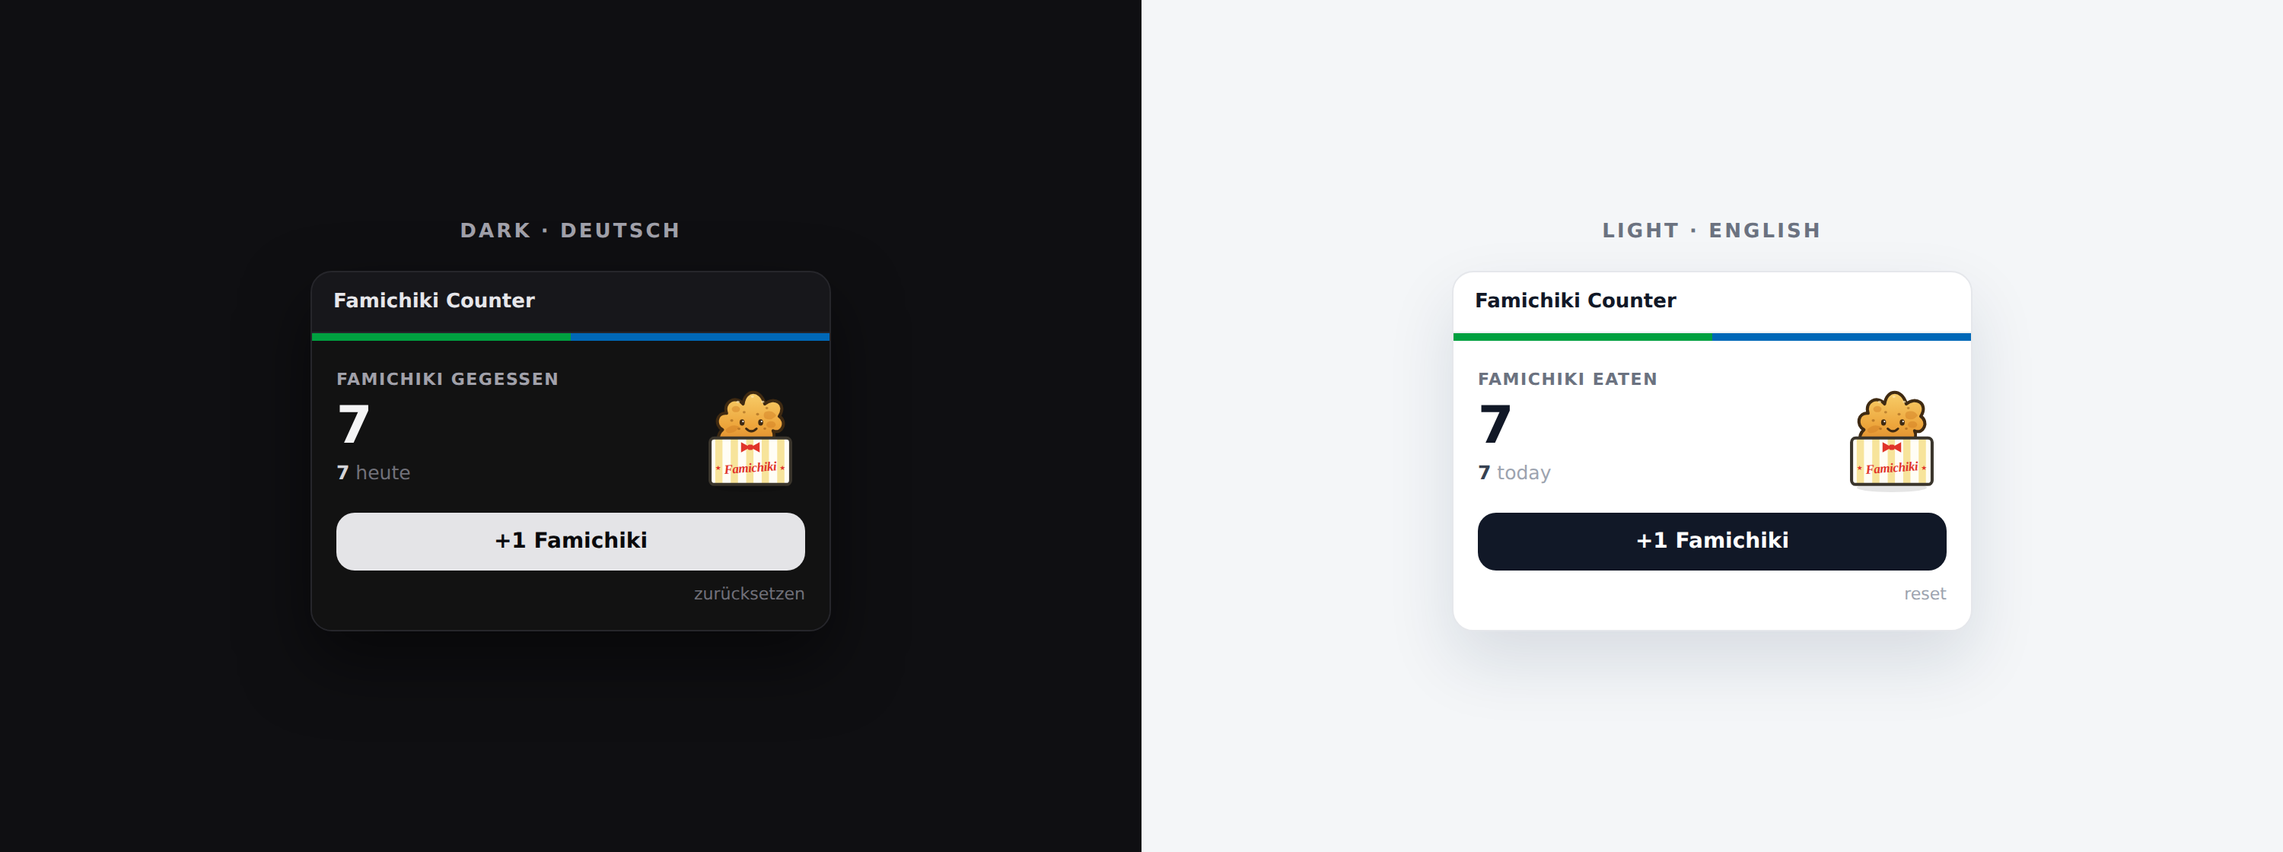
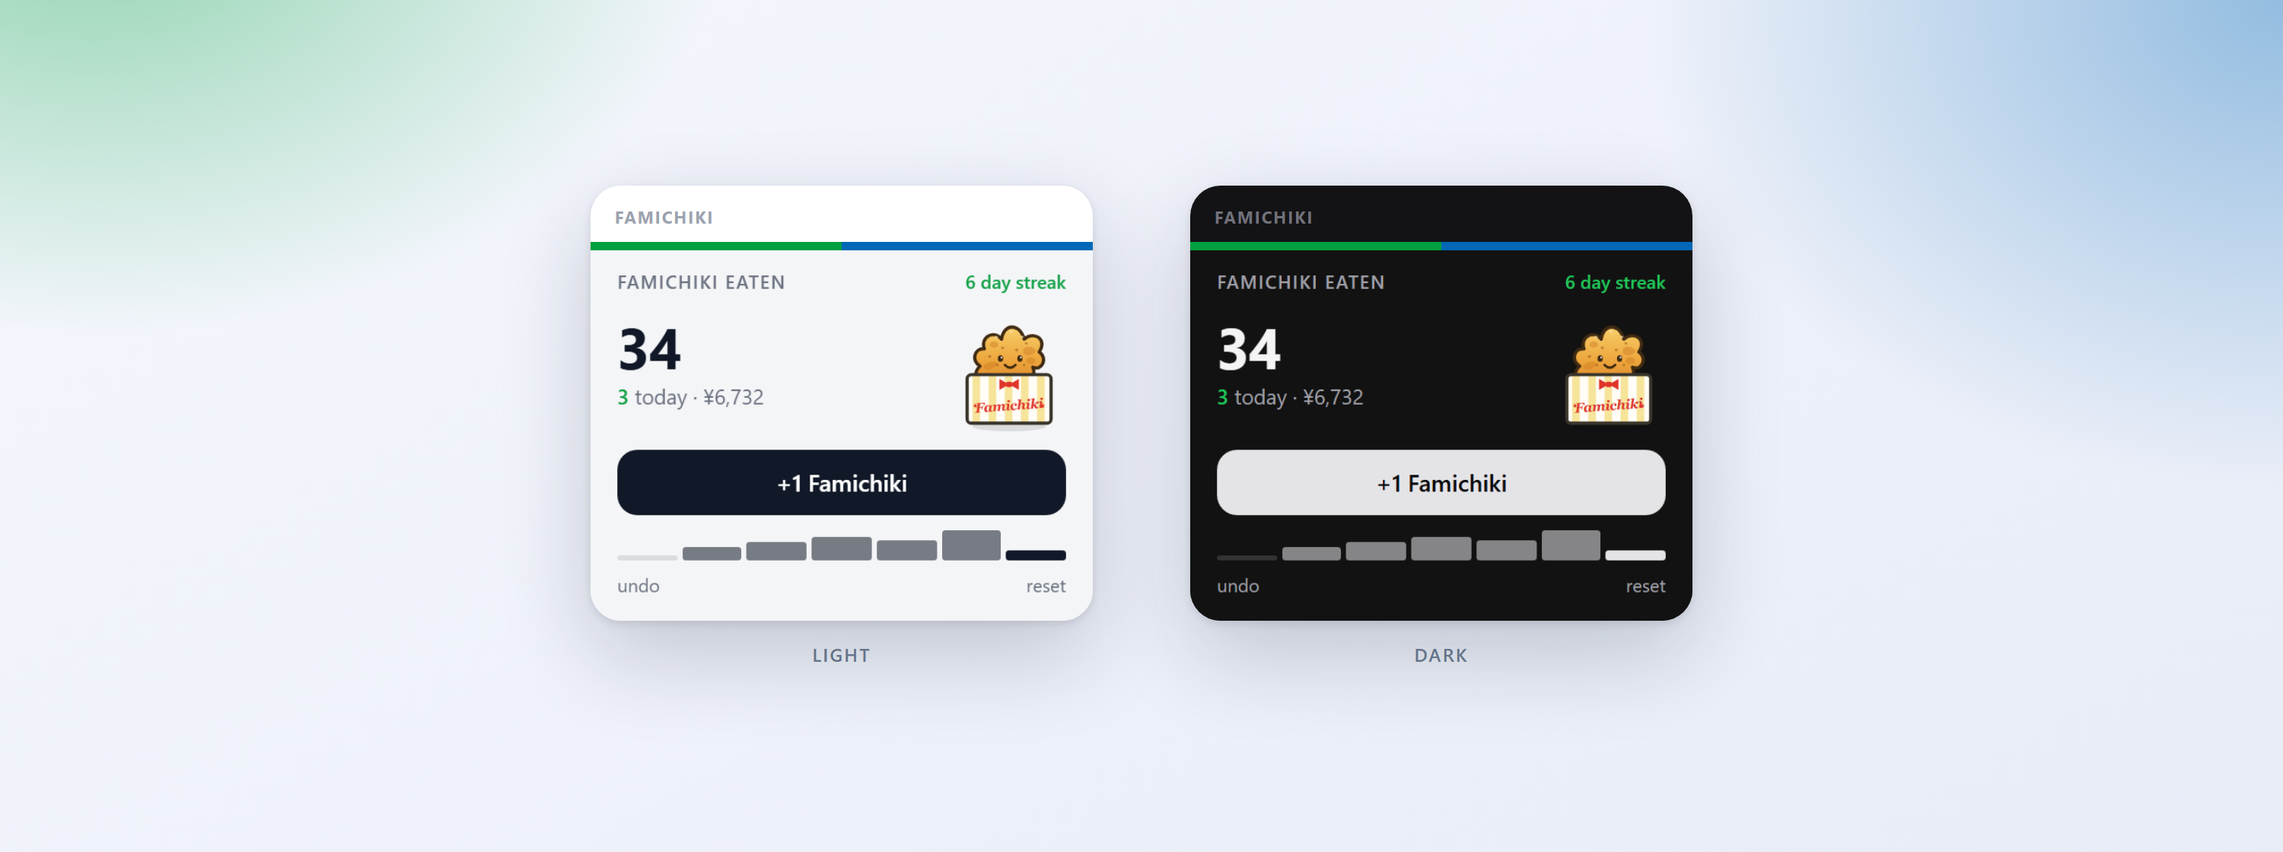
docs: rewrite README and publishing guide for 2.0.0, refresh store images
README covers the new permissions — the registry gate requires every declared
permission string to appear verbatim — plus the settings, the TREK 4 requirement
and the upgrade path. It states plainly that the trip badge and PDF section show
the trip's total rather than a personal one, and that pre-2.0.0 rows have an
approximated local date, instead of leaving either to be discovered.

New store images rendered from the real widget: docs/screenshot.png (1600x900,
light and dark side by side over a FamilyMart-green/blue mesh) and
docs/widget.png (both themes at true sidebar width).

PUBLISHING.md was stale in ways that would have cost a release:

- the manual path was missing `git fetch origin --tags` after `gh release
  create`. gh creates the tag remotely only, so `entry` could not resolve the
  commit — it would have failed every time as written.
- publish was described as four steps; it is five, and a failure after the
  release now rolls back the release and tags it created.
- it claimed the repo was at 1.0.0 and pointed at the old registry owner.
- the README gate was summarised as sections plus screenshot, omitting the
  400-character prose floor, the placeholder rule and the live image fetch.
- signing was described as a one-time decision to make up front. Going unsigned
  to signed is safe at any version, and the first signed release retro-signs the
  already-published ones — worth knowing, since 1.x shipped unsigned.
[…]

diff --git a/PUBLISHING.md b/PUBLISHING.md
@@ -1,13 +1,17 @@
 # Publishing the Famichiki Counter to the TREK-Plugins registry
 
 This guide takes you from this repository to a live listing in the
-[TREK-Plugins](https://github.com/mauriceboe/TREK-Plugins) community registry.
+[TREK-Plugins](https://github.com/liketrek/TREK-Plugins) community registry.
 
 **How TREK distribution works:** your plugin's code, README, screenshot and
 release artifact live in **this repo** (`fbnlrz/trekichiki`). The registry only
 stores one small metadata file per plugin — `registry/plugins/trekichiki.json`.
 "Getting listed" means opening a pull request that adds that one file. TREK
 instances then fetch the registry index and can install your release.
+
+> The SDK's default registry is `liketrek/TREK-Plugins`. Earlier releases of this
+> plugin were submitted under the project's former `mauriceboe/…` name. If the
+> default ever points somewhere else than you expect, pass `--registry <owner/name>`.
 
 ---
 
@@ -26,26 +30,34 @@ instances then fetch the registry index and can install your release.
 
 ---
 
-## 1. Get the code onto your PC and merged to `main`
+## 1. Commit and push what you are publishing
 
-The commit you publish must exist on the public repo. Cleanest is to have it on
-`main`:
+**The registry grades the tagged commit, not your working tree.** The classic
+failure is a README that is perfect on disk and missing from the commit, which
+passes `validate` locally and then fails `preflight` at the pinned commit.
 
 ```bash
-git clone https://github.com/fbnlrz/trekichiki.git
-cd trekichiki
-
-# If the widget is still on the feature branch, merge it into main:
 git checkout main
-git merge --ff-only origin/claude/famichiki-counter-widget-jmlkt5   # or open & merge a PR on GitHub
+git add -A && git commit -m "Famichiki Counter 2.0.0"
 git push origin main
 ```
 
-(If you merged a PR on GitHub instead, just `git checkout main && git pull`.)
+---
+
+## 2. Where am I? — `status`
+
+```bash
+npm run status               # npx trek-plugin-sdk status .
+```
+
+`status` never fails; it grades every gate that can be answered offline
+(Manifest / Code / Docs / Release / Repo) and names exactly one next command.
+`npm run validate` runs the same checks as a real gate with an exit code, which
+is what CI wants.
 
 ---
 
-## 2. Publish — the one command
+## 3. Publish — the one command
 
 From the repo root:
 
@@ -54,84 +66,109 @@ npm run release              # cross-platform wrapper (node scripts/publish.mjs)
 ```
 
 > **Windows note:** `npm run release` uses a Node wrapper, so it works in
-> PowerShell/CMD. If you ever call the bash version directly and see
-> `set: pipefail: invalid option`, that's a CRLF line-ending issue — use
-> `npm run release` (Node) or the raw `npx trek-plugin-sdk publish …` command.
-> You still need **GitHub CLI** installed (`winget install --id GitHub.cli -e`)
-> and authenticated (`gh auth login`); a `spawnSync gh ENOENT` error means it
-> isn't on your PATH yet.
+> PowerShell/CMD. You still need **GitHub CLI** installed
+> (`winget install --id GitHub.cli -e`) and authenticated (`gh auth login`);
+> a `spawnSync gh ENOENT` error means it isn't on your PATH yet.
 
 or call the SDK directly:
 
 ```bash
-npx trek-plugin-sdk publish --repo fbnlrz/trekichiki --tag v1.0.0
+npx trek-plugin-sdk publish --repo fbnlrz/trekichiki --tag v2.0.0 --sign
 ```
 
-That single command does **everything**:
+That single command runs **five** steps, in this order:
 
-1. **pack** → builds `plugin.zip` in the exact install layout and computes its `sha256`
-2. **tag + release** → creates git tag `v1.0.0` and a GitHub Release with `plugin.zip` attached
-3. **preflight** → runs the *entire* registry CI locally (tag→commit, manifest parity, sha256/size, native-binary scan, README quality gate)
-4. **submit** → forks `mauriceboe/TREK-Plugins`, writes `registry/plugins/trekichiki.json`, pushes, and **opens the PR** — printing its URL
+1. **check** → every offline gate (manifest, lucide icon, README quality, screenshot on disk, permission parity)
+2. **pack** → builds `plugin.zip` in the exact install layout and computes its `sha256`
+3. **release** → creates git tag `v2.0.0` and a GitHub Release with `plugin.zip` attached
+4. **preflight** → runs the *entire* registry CI (tag→commit, manifest parity, artifact download + sha256, native-binary scan, **README re-graded at the pinned commit**, owner binding, signature checks)
+5. **submit** → forks the registry, writes `registry/plugins/trekichiki.json`, pushes, and **opens the PR** — printing its URL
 
-If preflight finds a problem it **stops before opening the PR**, so a broken
-entry never becomes a doomed pull request. Fix what it reports and re-run.
+If a step-1 gate fails, **nothing** is packed, tagged, pushed or released. If a
+*later* step fails, `publish` **rolls back what this run created** — the
+release, the remote tag and the local tag — so you fix the problem and re-run
+against the **same version**. (`--keep-release` opts out of the rollback;
+`unrelease <tag>` cleans up a release that was already stranded.)
 
-> **The tag must equal the manifest version.** This repo is at `version: 1.0.0`,
-> so the tag is `v1.0.0`. `npm run release` reads the version from
+> **The tag must equal the manifest version.** This repo is at `version: 2.0.0`,
+> so the tag is `v2.0.0`. `npm run release` reads the version from
 > `trek-plugin.json` for you, so it always matches.
 
-When the PR is merged, a TREK maintainer's CI stamps it, regenerates the public
-index, and your plugin is discoverable under **Admin → Plugins → Discover** in
-any TREK instance.
+When the PR is merged, the registry CI stamps it, regenerates the public index,
+and your plugin is discoverable under **Admin → Plugins → Discover** in any TREK
+instance. Admins see the update on their next registry poll; applying it is an
+explicit action, and because 2.0.0 requests **more permissions than 1.x**, every
+admin has to re-approve it before it activates.
 
 ---
 
-## 3. (Recommended) Sign your release
+## 4. Signing — say yes
 
-A signature proves *you* built the bytes (a compromised registry still can't
-ship code under your name). One-time key, then add `--sign`:
+A signature proves *you* built the bytes; the `sha256` pin only proves they are
+what the registry served. Only the signature survives a compromised registry.
+
+In a terminal, `publish` **offers to sign and creates the key for you** — just
+say yes. In scripts or CI, which are never prompted, pass `--sign`:
 
 ```bash
-npx trek-plugin-sdk keygen           # once → ~/.trek-plugin/signing.key
-#  ⚠  BACK THIS FILE UP. Losing it means you can't ship signed updates.
+npx trek-plugin-sdk keygen           # optional, by hand → ~/.trek-plugin/signing.key
+#  ⚠  BACK THIS FILE UP. One key covers all your plugins, forever.
 
-npm run release -- --sign            # or: npx trek-plugin-sdk publish --repo fbnlrz/trekichiki --tag v1.0.0 --sign
+npm run release -- --sign
 ```
 
-Signing is a one-way door: once you've shipped signed, an unsigned or
-differently-keyed update is refused until an admin re-trusts it. Keep the key
-stable and backed up.
+**Signing late is fine.** This plugin's 1.x releases are unsigned, and going
+unsigned → signed at 2.0.0 breaks nobody: nothing is pinned until a signed
+version installs. The SDK **retro-signs the older versions automatically** on
+the first signed update — it downloads each pinned artifact, verifies it against
+its recorded `sha256`, and signs it with the same key (a mismatch aborts the
+run), because the registry requires every version signed once a key is present.
+
+What you cannot do is **stop**. Once a plugin has shipped signed, TREK refuses —
+on every instance that already has it — an update that drops the key, changes
+the key, or ships unsigned. A key *rotation* is recoverable (a maintainer applies
+`allow-key-change` and every admin re-trusts); a dropped key has no override at
+all. So back the key up.
 
 ---
 
-## 4. Manual path (if you prefer to see every step)
+## 5. Manual path (if you prefer to see every step)
 
 ```bash
 npx trek-plugin-sdk pack .                                   # → plugin.zip + sha256
-gh release create v1.0.0 plugin.zip --title "Famichiki Counter v1.0.0" --notes "First release"
-npx trek-plugin-sdk entry --repo fbnlrz/trekichiki --tag v1.0.0 \
-  --out registry/plugins/trekichiki.json                     # fills commitSha/downloadUrl/sha256/size…
-npx trek-plugin-sdk preflight --repo fbnlrz/trekichiki --tag v1.0.0   # must be green
-# then fork mauriceboe/TREK-Plugins, add ONLY registry/plugins/trekichiki.json, open the PR
+gh release create v2.0.0 plugin.zip --title "Famichiki Counter v2.0.0" --notes "…"
+git fetch origin --tags                                      # ← REQUIRED: gh creates the tag
+                                                             #   remotely only, and `entry`
+                                                             #   resolves it locally
+npx trek-plugin-sdk entry --repo fbnlrz/trekichiki --tag v2.0.0 --sign \
+  --merge registry/plugins/trekichiki.json \
+  --out registry/plugins/trekichiki.json                     # newest version first
+npx trek-plugin-sdk preflight --repo fbnlrz/trekichiki --tag v2.0.0   # must be green
+# then fork the registry, add ONLY registry/plugins/trekichiki.json, open the PR
 ```
+
+`entry` hashes your **local** `plugin.zip`, so it has to be byte-identical to
+the asset you uploaded — never re-pack in between. On a hand-written entry, take
+`sha256` and `size` from the uploaded asset itself.
 
 **PR rule:** the pull request must change **exactly one file** —
 `registry/plugins/trekichiki.json`. Never touch `dist/` or set
-`reviewedAt`/`boundOwner`; the registry CI owns those.
+`reviewedAt`/`boundOwner`; the registry CI owns those. Leave the older
+`versions[]` blocks alone — CI re-validates all of them, over the network.
 
 ---
 
-## 5. Shipping an update later (v1.1.0, …)
+## 6. Shipping an update later (2.1.0, …)
 
 ```bash
-# 1. bump "version" to 1.1.0 in trek-plugin.json, make your changes, commit, push to main
-npm run release              # reads 1.1.0 → tags v1.1.0 → release → preflight → PR (merges the new
-                             # version onto your existing entry, newest first)
+# 1. bump "version" in trek-plugin.json AND package.json, make your changes
+# 2. commit and push — the commit is what gets graded
+npm run release -- --sign    # reads the version → tags → release → preflight → PR
 ```
 
-If a new version requests **more** permissions, admins must re-approve it on
-their instance before it activates.
+Remember that the `trek` range in the manifest is enforced at install **and** at
+activation, with no admin override. This version declares `>=4.0.0 <5.0.0`, so
+TREK 3.x instances keep resolving "install latest" to 1.0.3 rather than breaking.
 
 ---
 
@@ -139,13 +176,16 @@ their instance before it activates.
 
 | Symptom | Cause | Fix |
 |---|---|---|
+| `could not resolve the commit for tag` | `gh` created the tag remotely only | `git fetch origin --tags` before `entry`/`preflight` |
 | `gitTag does not resolve` | tag not pushed, or ≠ manifest version | use `npm run release` (derives the tag); ensure `git push` ran |
 | `manifest parity` fails | repo not public, or tagged commit not pushed | make repo public; publish from a committed, pushed HEAD |
-| `sha256 mismatch` | release asset was re-uploaded/edited | never mutate a released `plugin.zip` — bump the version and cut a new release |
-| README gate fails | missing section / screenshot / a declared permission not explained | keep the **What it does / Screenshots / Permissions / Setup** sections and `docs/screenshot.png` (already in place here) |
+| `sha256 mismatch` | release asset re-uploaded, or entry hashed a re-pack | never mutate a released `plugin.zip`; bump the version and cut a new release |
+| README gate fails | missing section, <400 chars of prose, placeholder left, screenshot unreachable, or a declared permission not named | keep all four sections, real prose, `docs/screenshot.png` committed, and every permission string present verbatim |
+| `icon` rejected | not a real lucide name | `validate` catches this offline — an unknown name silently falls back to `Blocks` in TREK |
 | `egress` gate | `http:outbound*` permission without `egress[]` | not applicable — this plugin makes no network calls |
+| `release already exists` | re-running without a version bump | bump the version, or `unrelease <tag>` first |
 | `gh: not authenticated` | `gh auth login` not done | run `gh auth login`, then retry |
 
 Full reference: the TREK wiki
-[Plugin-Publishing](https://github.com/mauriceboe/TREK/wiki/Plugin-Publishing)
+[Plugin-Publishing](https://github.com/liketrek/TREK/wiki/Plugin-Publishing)
 page and the registry's `schema/plugin-entry.schema.json`.

diff --git a/README.md b/README.md
@@ -13,42 +13,85 @@ pleasure into a running score.
 
 It drops a small card onto your TREK dashboard with a big tally of how many
 Famichiki you've eaten, a **+1 Famichiki** button to log the next one, and a
-"today" line so you can see how the day is going. Every count is kept **per
-user** in the plugin's own private database, so your tally is yours alone and
-survives restarts. The little chicken does a happy hop each time you log a
-bite, and a two-tap **reset** lets you start a fresh trip's count without any
-risk of an accidental wipe.
+line telling you how today is going. A seven-day bar chart shows the last week
+at a glance, and once you've eaten one on two consecutive days the card starts
+tracking your streak. Every count is kept **per user** in the plugin's own
+private database, so your tally is yours alone and survives restarts. The little
+chicken does a happy hop each time you log a bite.
 
-No accounts, no API keys, no network calls — it just remembers your Famichiki
-love and shows it off. Itadakimasu!
+Crucially, "today" means *your* day. The widget reads your time zone from TREK
+and counts against your local calendar date, so a Famichiki eaten at eight in
+the morning in Osaka lands on the right day instead of being filed under
+yesterday, which is what a naive UTC counter would do for roughly a third of
+every Japanese day.
+
+While a trip of yours is running, each Famichiki is quietly attributed to it.
+That turns the tally into something the rest of TREK can use: a badge on the
+trip's dashboard card, a section in the trip's exported PDF, and — if you want
+it — a line in the trip budget. Nothing leaves your server; the plugin makes no
+network calls of any kind.
 
 ## Screenshots
 
-![The Famichiki Counter widget in TREK's dark and light themes](./docs/widget.png)
+![The Famichiki Counter widget in TREK's light and dark themes](./docs/widget.png)
 
-The card shows your all-time total, how many you've had today, and when the
-last one went down. Tap **+1 Famichiki** to add one; the count ticks up and the
-Famichiki mascot gives a happy shake. The mascot is a hand-built inline SVG —
-no raster image, so it renders crisply inside TREK's locked-down plugin sandbox.
+The card shows your all-time total, how many you've had today, what they have
+cost you so far, and the current streak. Tap **+1 Famichiki** to add one; the
+count ticks up and the mascot gives a happy shake. Mis-tapped? **undo** takes
+back the most recent one. The **reset** link clears the whole tally and asks you
+to confirm first. The mascot is a hand-built inline SVG — no raster image, so it
+renders crisply inside TREK's locked-down plugin sandbox.
 
-The widget follows TREK's own light and dark design tokens, so it sits natively
-next to your other dashboard cards, and its interface is localized — it shows in
-**English** by default and switches to **German** automatically when TREK runs
-in German (`de`).
+The widget follows TREK's own light and dark design tokens, including your
+chosen accent colour, so it sits natively next to your other dashboard cards.
+Its interface is localized: **English** by default, switching to **German**
+automatically when TREK runs in German. It is built to stay legible in a narrow
+sidebar, and the layout is ordered so the button you actually came for is never
+the thing that gets cut off.
 
 ## Permissions
 
 | Permission | Why it's needed |
 |---|---|
-| `db:own` | Stores your Famichiki tally in the plugin's own private SQLite file — one row per snack, kept per user. Nothing is written anywhere else and no other TREK data is touched. |
+| `db:own` | Stores your Famichiki tally in the plugin's own private SQLite file — one row per snack, kept per user, plus the milestones you have already been told about. This is the source of truth for everything else below. |
+| `db:read:trips` | Reads only the list of trips you can already see, to work out which one is running today so a Famichiki can be attributed to it. It never writes to a trip and never looks at places, days, files or bookings. |
+| `db:write:costs` | Optional and **off by default**. When you switch on budget logging, the plugin keeps one budget item per day on the running trip — "Famichiki x3" — and updates it as the day goes on, rather than littering your budget with one row per snack. Needs the Costs addon and your own budget-edit rights. |
+| `notify:send` | Sends you a TREK notification when you pass 10, 25, 50, 100, 250 or 500 Famichiki. Each milestone fires once, only ever to you, and the whole thing can be switched off in settings. |
+| `hook:trip-card-provider` | Draws a small Famichiki badge on the trip's card on your dashboard. The number is the trip's total across everyone who counted on it, because TREK does not tell this hook who is looking — see the note below. |
+| `hook:pdf-section-provider` | Adds a short Famichiki section, with a day-by-day table, to the trip's exported PDF. Text only; TREK lays it out. |
+| `hook:user-data` | Lets TREK call the plugin when a user account is exported or deleted, so your Famichiki history goes with it. It grants no access to any TREK data — it only allows the host to reach back into this plugin's own database. |
+
+Two things worth being straight about. The **trip card badge and the PDF section
+show the trip's total, not your personal one.** TREK gives those hooks a trip,
+but not the identity of the person looking, so a per-person figure is not
+something the plugin can produce there — on a shared trip you are looking at the
+group's combined appetite. Your own number is the one on the dashboard widget.
+And only Famichiki counted **while a trip was running** carry a trip, so
+anything logged between trips shows up in your personal tally but not in the
+badge or the PDF.
 
 ## Setup
 
-There's nothing to configure. Install and activate the plugin from
-**Admin → Plugins**, and the **Famichiki** card appears on your dashboard
-sidebar. Start tapping **+1 Famichiki** every time you grab one at
-FamilyMart — the counter does the rest. Use the small **reset** link (tap
-twice to confirm) to zero out the tally for a new trip.
+Install and activate the plugin from **Admin → Plugins**, and the **Famichiki**
+card appears on your dashboard sidebar. Start tapping **+1 Famichiki** every
+time you grab one at FamilyMart — the counter does the rest. There is nothing
+you have to configure to use it.
+
+If you want to, you can adjust it under **Settings → Plugins**. The **daily
+goal** turns today's number green once you reach it. **Milestone notifications**
+can be switched off. **Log to trip budget** is off until you turn it on, and
+uses **price per Famichiki** and **currency** — 198 yen is roughly what
+FamilyMart charged at the time of writing, so change it if your branch disagrees
+or if you are counting somewhere else entirely.
+
+### Upgrading from 1.x
+
+This version needs **TREK 4**. Your existing tally is migrated automatically and
+no counts are lost. One caveat: Famichiki counted before this version were only
+ever stored with a UTC timestamp, so their local date is approximated from it.
+Recent history may therefore be off by a day for entries made late in the
+evening; everything counted from now on is filed against your real local day.
+The new permissions mean an administrator has to approve the update once.
 
 ## Built with
 
@@ -58,7 +101,7 @@ the [`trek-plugin-dev`](https://github.com/fbnlrz/trek-plugin-skill) agent skill
 `trek-plugin.json` manifest, the `definePlugin` server API, the sandboxed iframe
 `postMessage` bridge, and the TREK-Plugins registry publishing flow. TREK's real
 light/dark design tokens were sourced from
-[`mauriceboe/TREK`](https://github.com/mauriceboe/TREK) so the card matches the
+[`liketrek/TREK`](https://github.com/liketrek/TREK) so the card matches the
 host UI exactly.
 
 ## License
